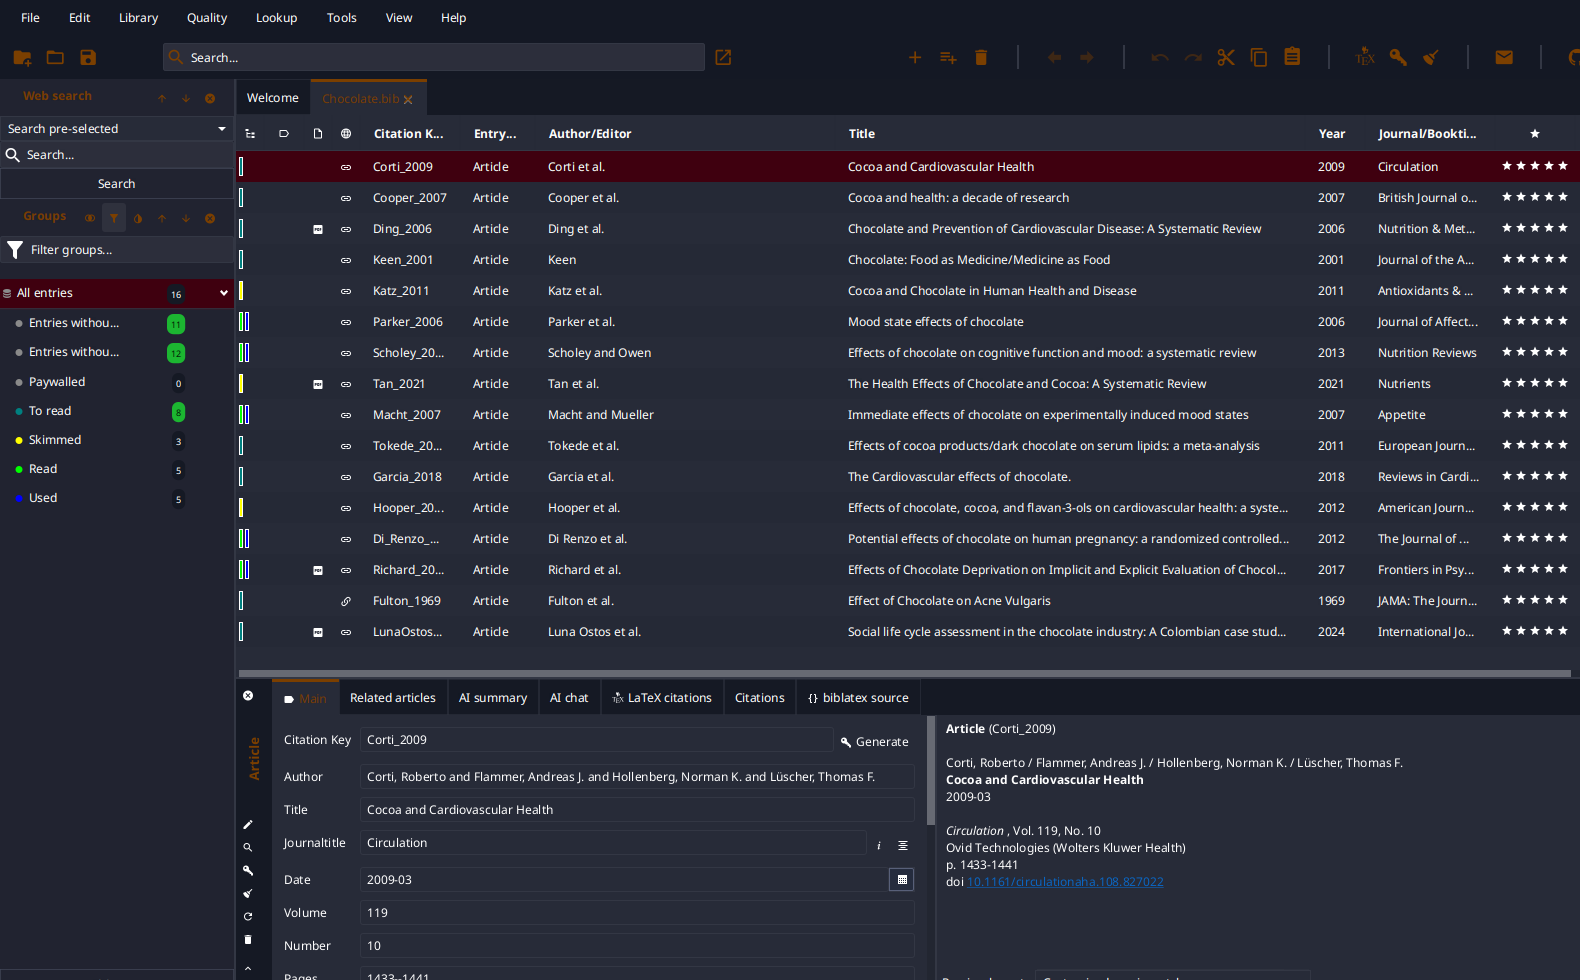
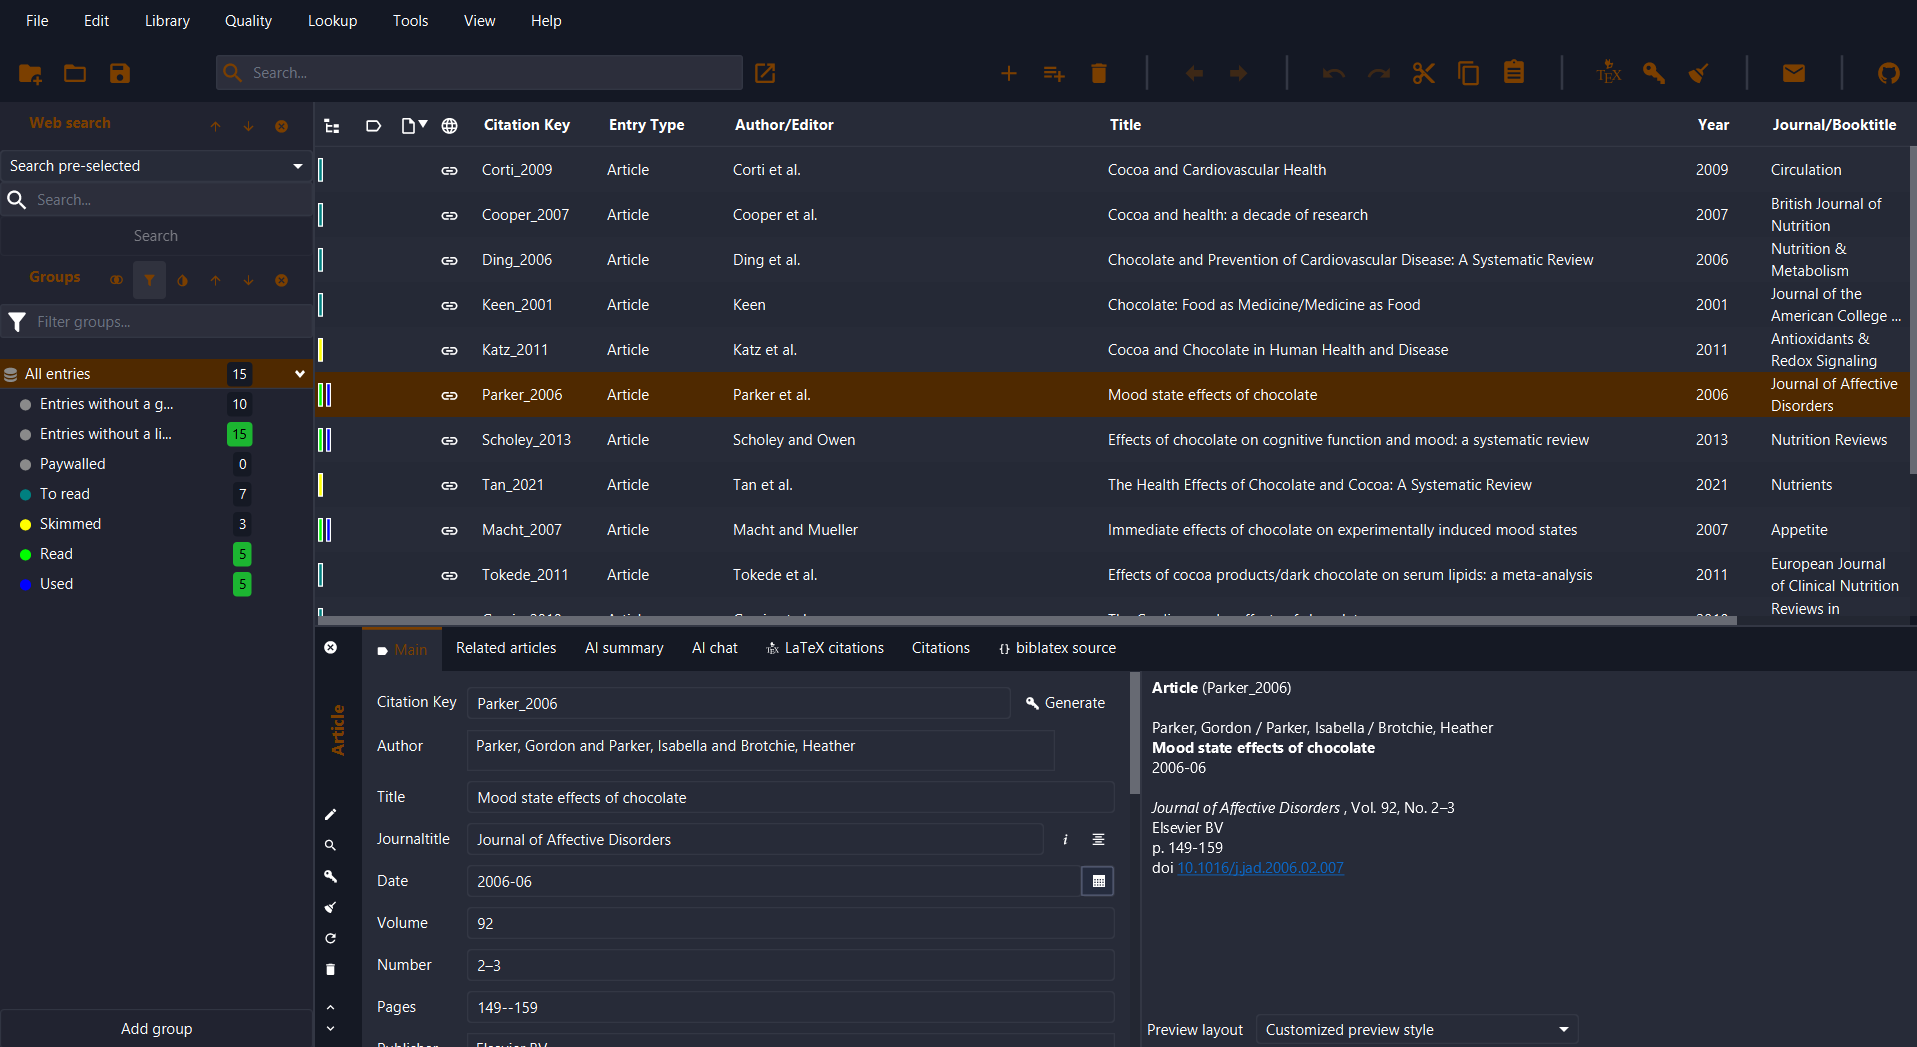
Fix dinogirl chocolate brown theme

diff --git a/themes/DinoGirls Themes/chocolatebrown-darksalmon-greytext.css b/themes/DinoGirls Themes/chocolatebrown-darksalmon-greytext.css
@@ -19,9 +19,9 @@
         -color-border-muted: #333744;
         -color-accent: #7B3F00;
         -color-link: #7B3F00;
-        -color-accent-subtle: #95623B;
-        -color-selection: #95623B;
-        -color-button-default: derive(#95623B, 50%);
+        -color-accent-subtle: #4F2900;
+        -color-selection: #4F2900;
+        -color-button-default: derive(#4F2900, 50%);
         -color-button-hover: #fff1;
         -color-button-pressed: #fff2;
         -color-overlay-hover: #fff1;
@@ -34,9 +34,9 @@
         -color-syntax-keyword: #b72486;
         -color-scrollbar-thumb: #9aa3af;
         -color-scrollbar-track: derive(#272b38, -90%);
-        -color-tooltip-bg: #95623B;
-        -color-drag-target: #95623B;
-        -color-drag-target-hover: #95623B;
+        -color-tooltip-bg: #4F2900;
+        -color-drag-target: #4F2900;
+        -color-drag-target-hover: #4F2900;
         -color-badge-bg: #151924;
     }
 }

diff --git a/themes/DinoGirls Themes/chocolatebrown-darksalmon-contrasttext.css b/themes/DinoGirls Themes/chocolatebrown-darksalmon-contrasttext.css
@@ -19,9 +19,9 @@
         -color-border-muted: #333744;
         -color-accent: #7B3F00;
         -color-link: #7B3F00;
-        -color-accent-subtle: #95623B;
-        -color-selection: #95623B;
-        -color-button-default: derive(#95623B, 50%);
+        -color-accent-subtle: #4F2900;
+        -color-selection: #4F2900;
+        -color-button-default: derive(#4F2900, 50%);
         -color-button-hover: #fff1;
         -color-button-pressed: #fff2;
         -color-overlay-hover: #fff1;
@@ -34,9 +34,9 @@
         -color-syntax-keyword: #b72486;
         -color-scrollbar-thumb: white;
         -color-scrollbar-track: derive(#272b38, -90%);
-        -color-tooltip-bg: #95623B;
-        -color-drag-target: #95623B;
-        -color-drag-target-hover: #95623B;
+        -color-tooltip-bg: #4F2900;
+        -color-drag-target: #4F2900;
+        -color-drag-target-hover: #4F2900;
         -color-badge-bg: #151924;
     }
 }
